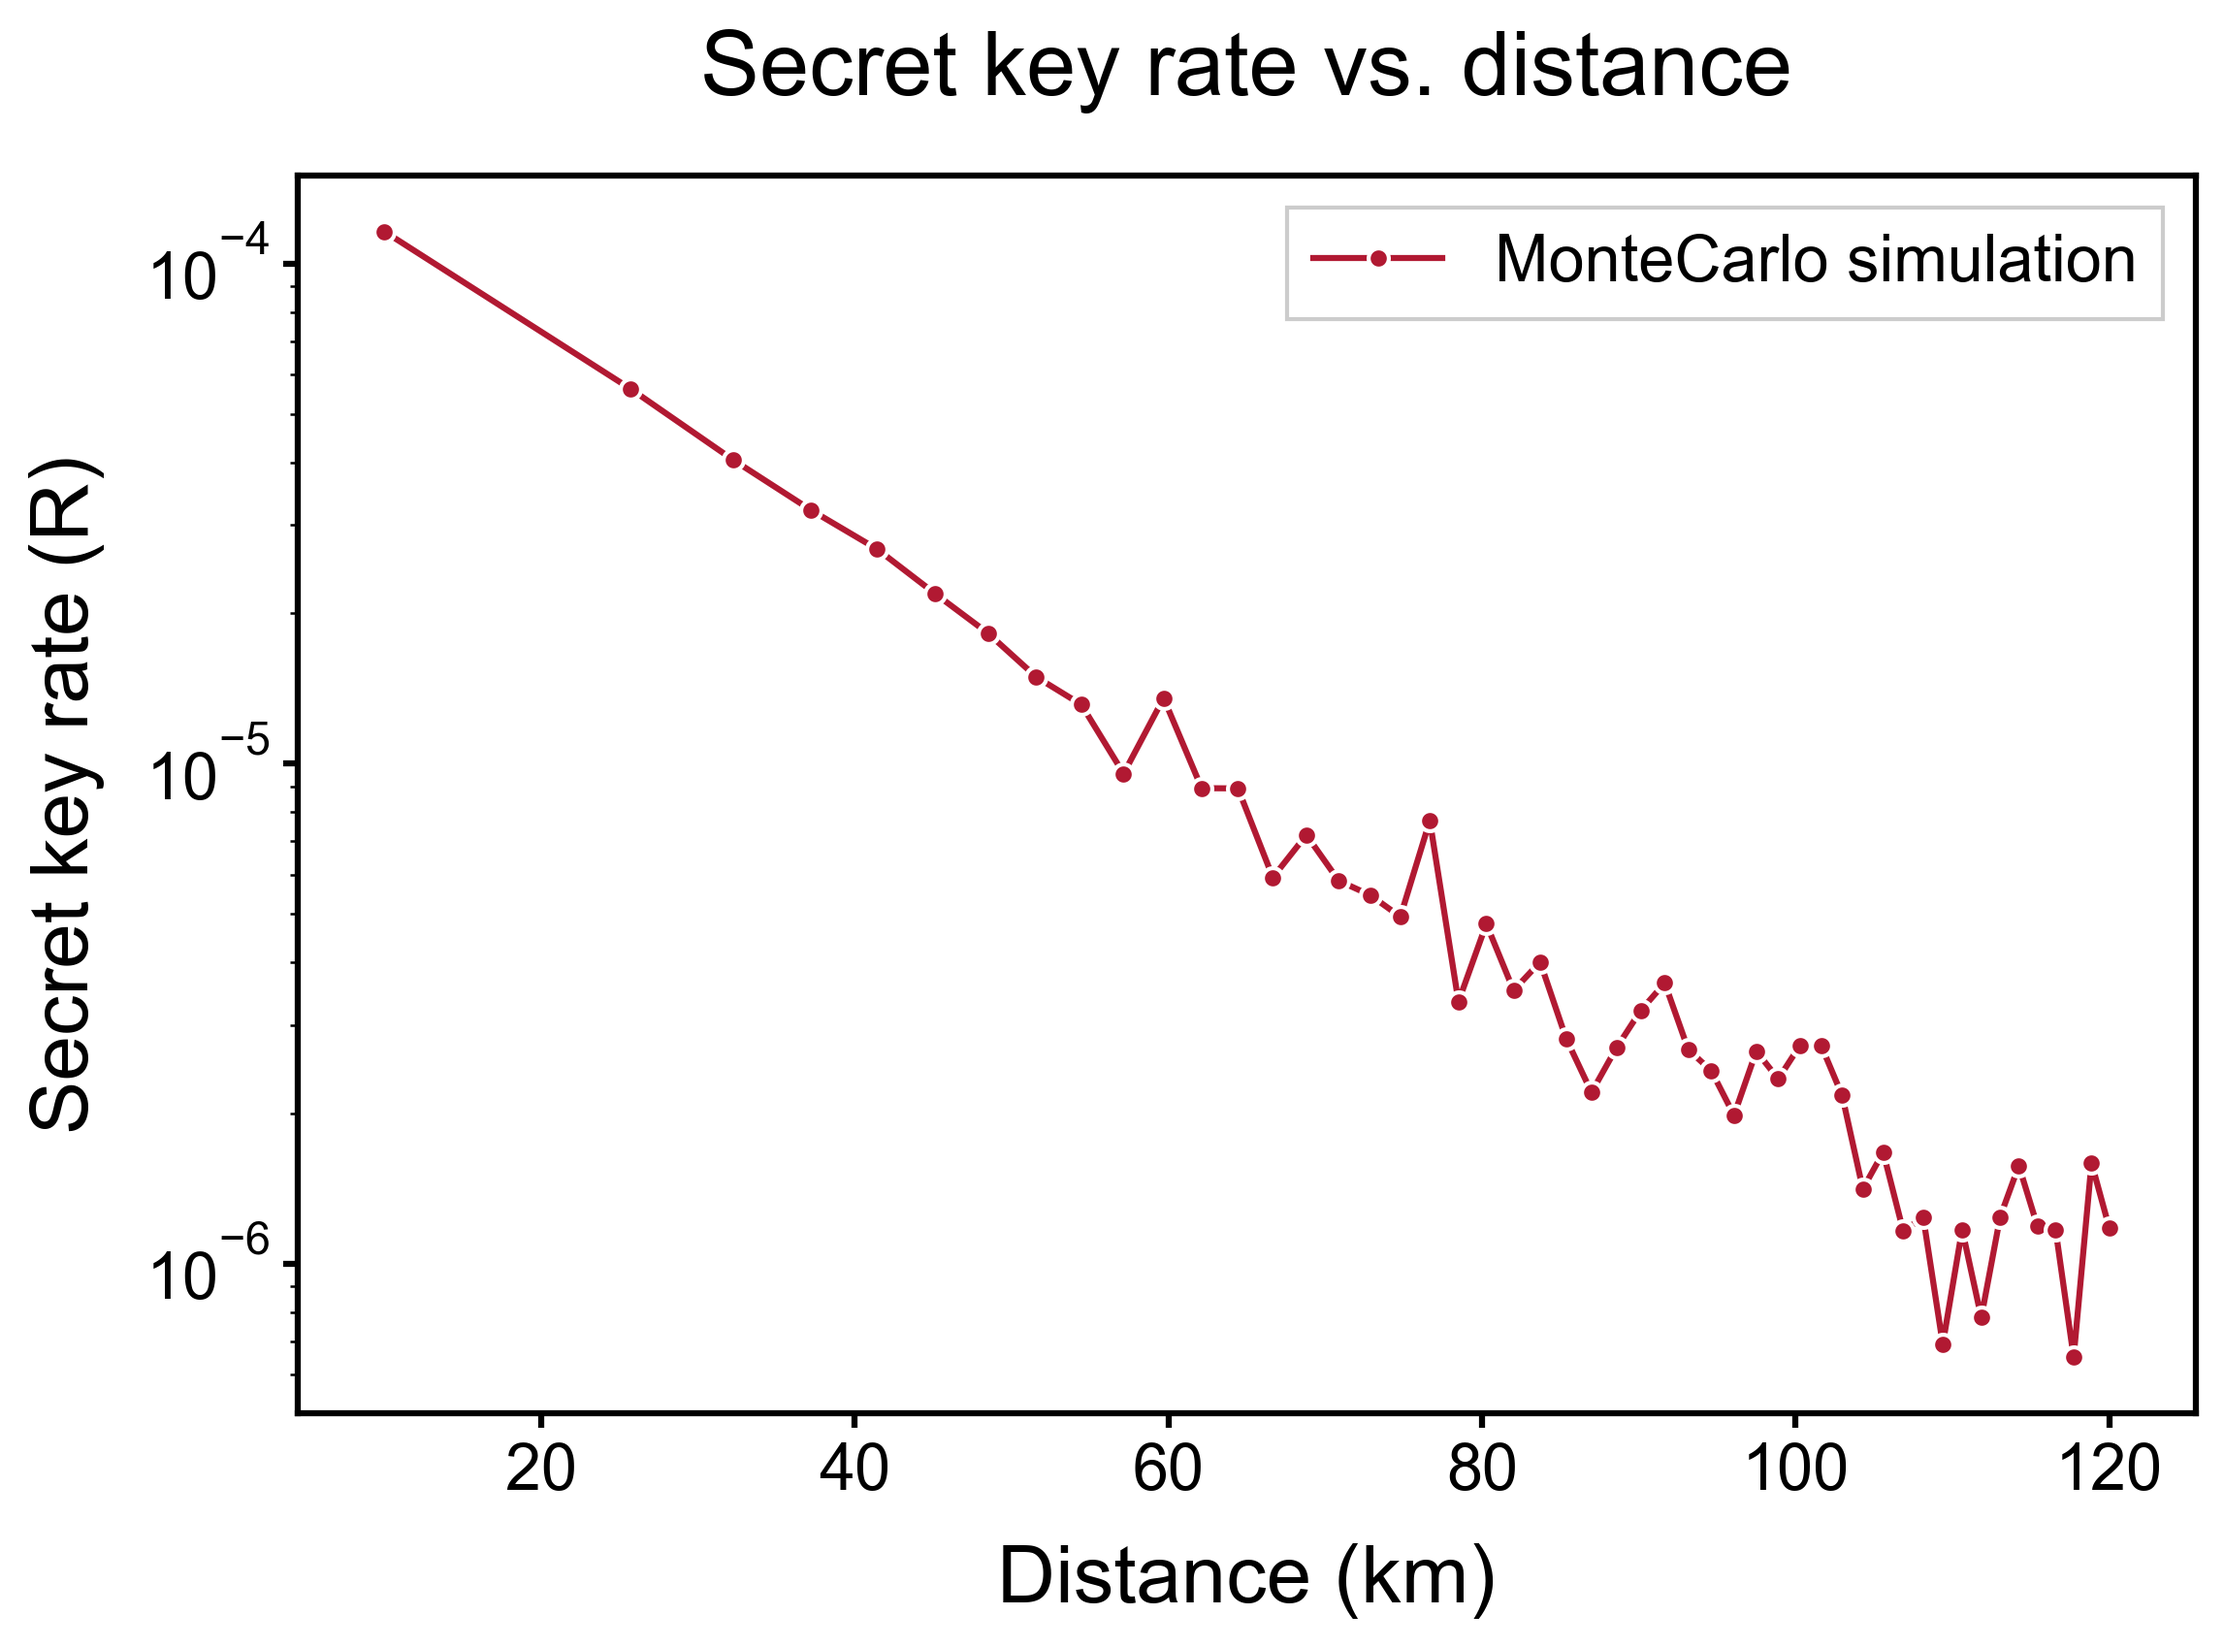
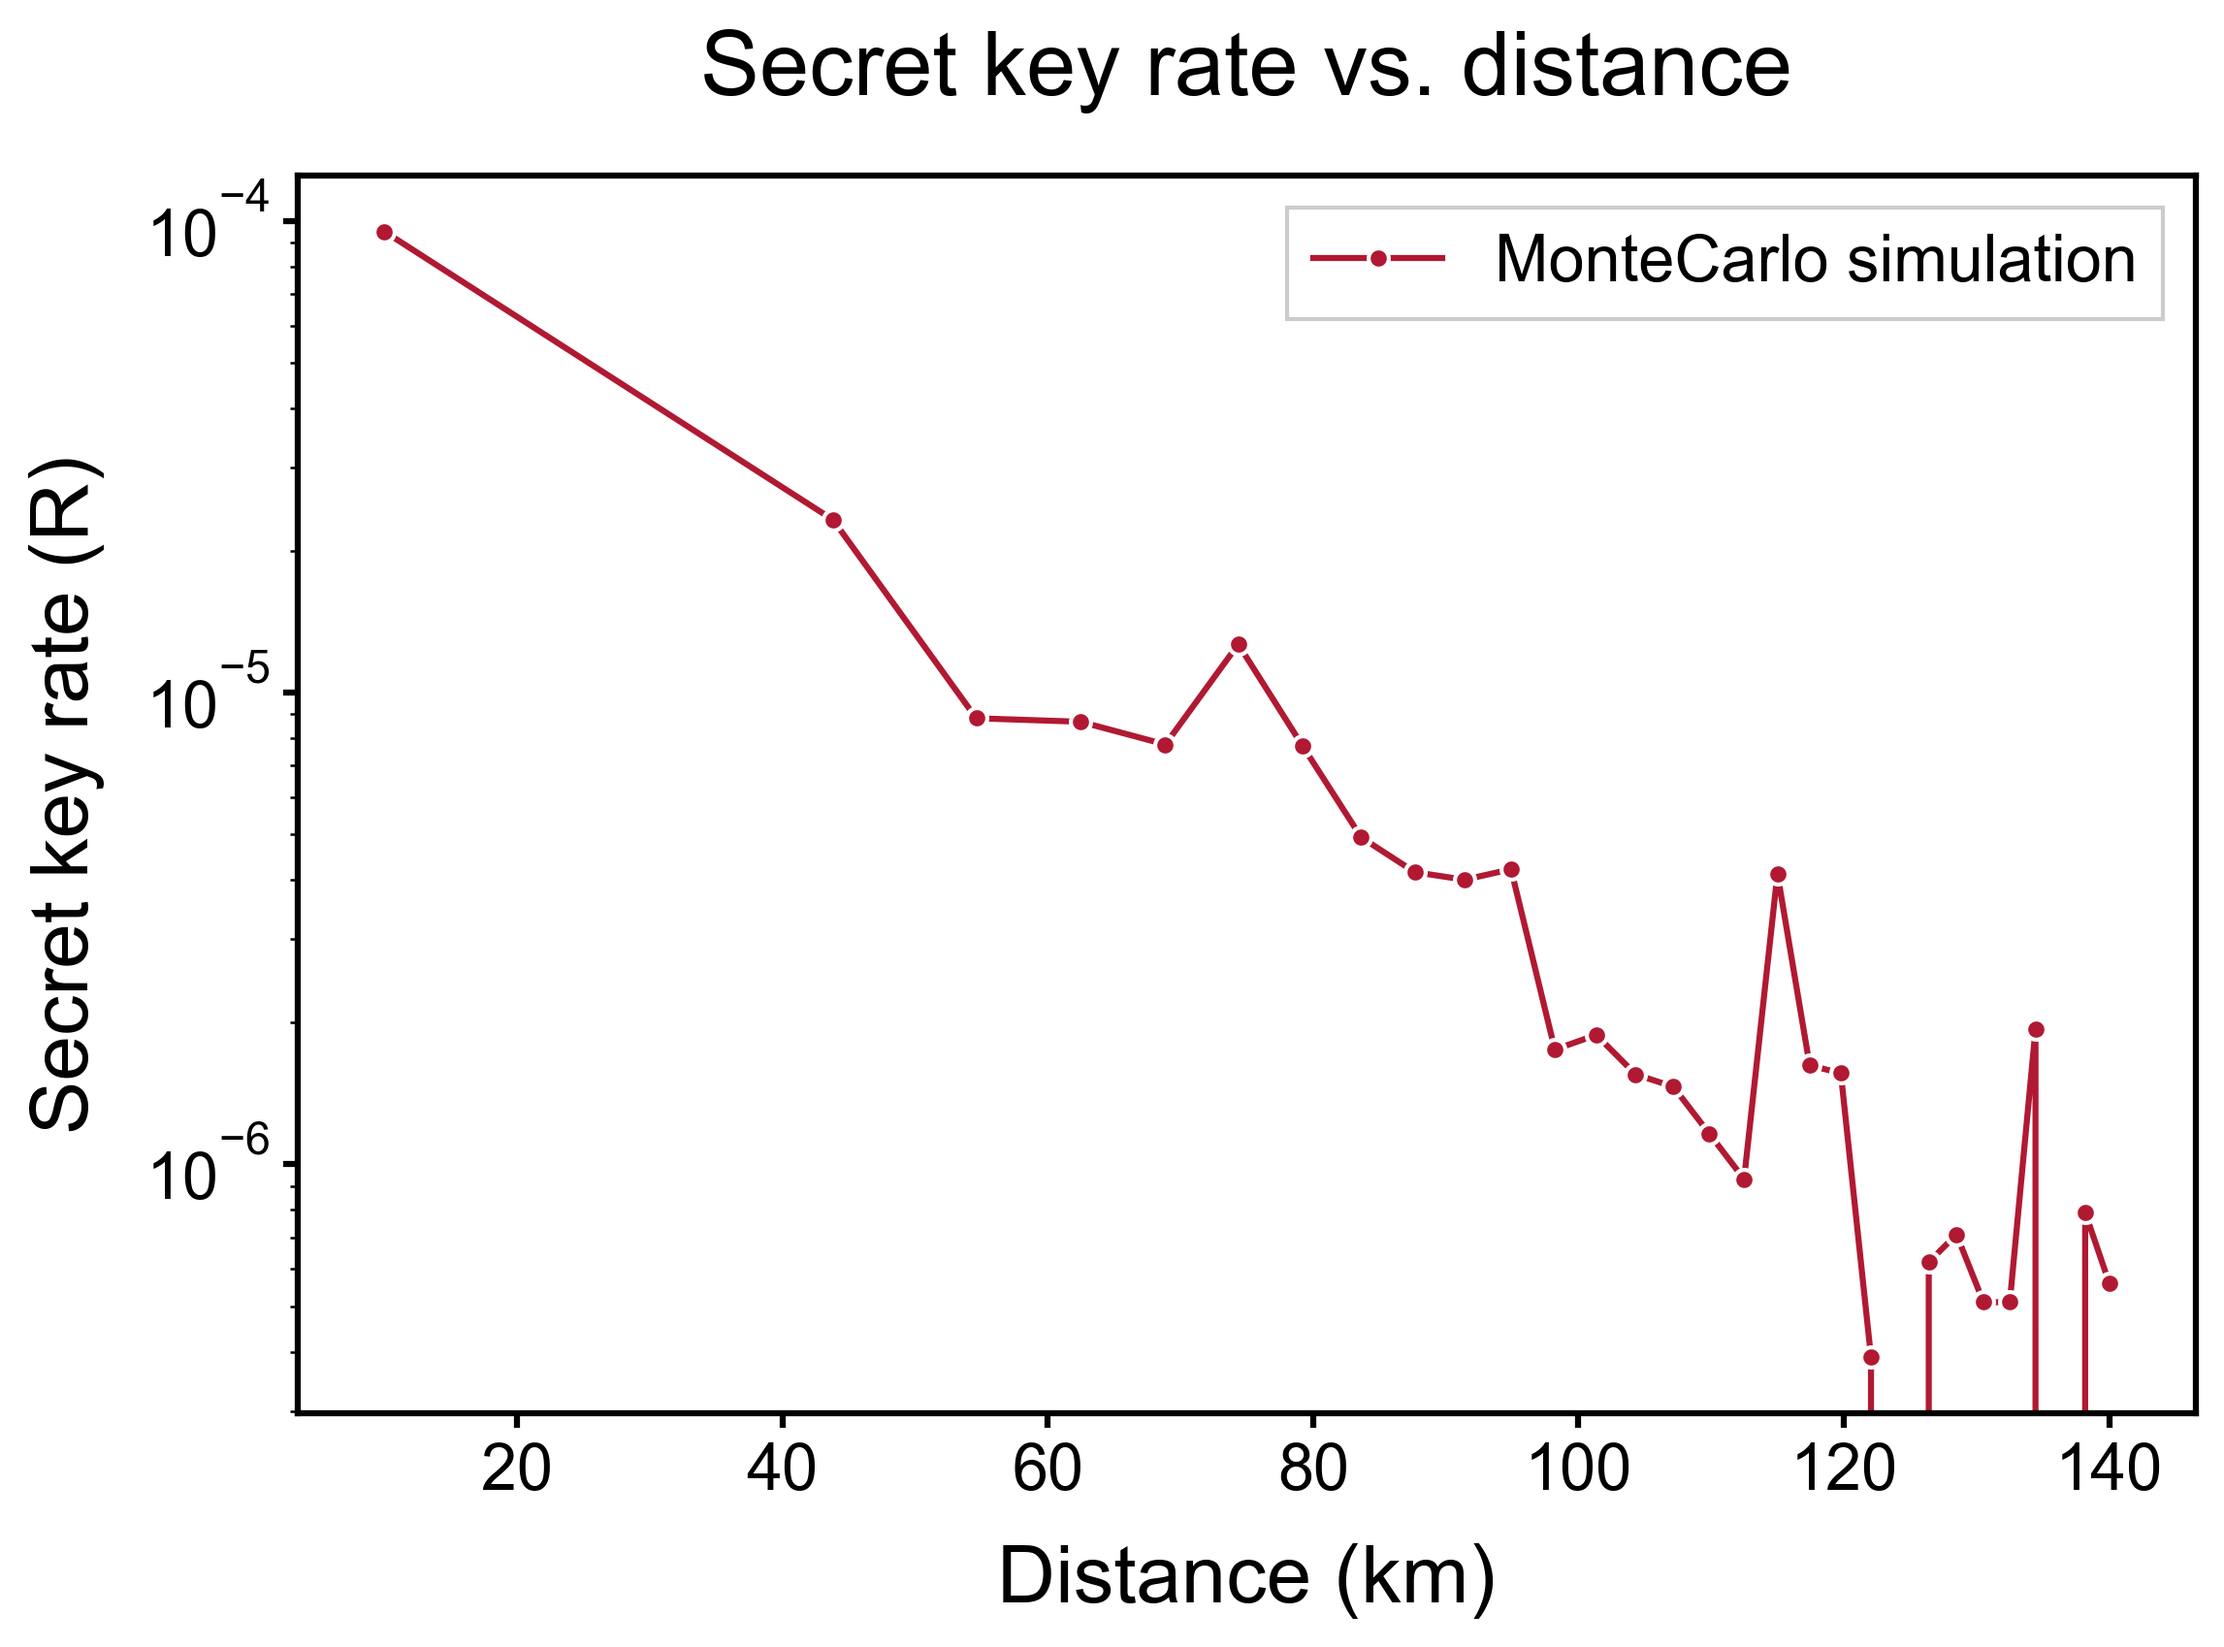
Adjusted simulation parameters and data output file system

diff --git a/main.py b/main.py
@@ -3,10 +3,12 @@ import matplotlib.pyplot as plt
 from tqdm import tqdm
 from bb88_simulator import Simulator
 from datetime import datetime
+import json
+import os
 
 simulation_parameters = {
-    "Iterations": 75,
-    "N": 30_000_000,  # Number of generated pulses
+    "Iterations": 100,
+    "N": 50_000_000,  # Number of generated pulses
     "mu": 0.5,  # Signal intensity
     "decoy_intensities": [0.1, 0.0],  # Decoy intensities
     "decoy_rate": 0.3,  # Decoy probability
@@ -29,33 +31,56 @@ iter = simulation_parameters["Iterations"]
 simulator = Simulator(simulation_parameters=simulation_parameters, rng=rng)
 
 d_min = 10.0
-d_max = 120
-sample = 60
-alpha = 0.5  # Controls the concentration of points
+d_max = 140
+d_sample = 60
+alpha = 0.4  # Controls the concentration of points
 
-t = np.linspace(0.0, 1.0, sample)
+iter_max = 120
+iter_min = 20
+gamma = 0.4
 
+t = np.linspace(0.0, 1.0, d_sample)
+
+iterations = (iter_min + (iter_max - iter_min) * (t**gamma)).astype(int)
 distances = d_min + (d_max - d_min) * (t**alpha)
 key_rates = np.array([], dtype=float)
+print(f"Iterations: {iterations}")
+print(f"Distances: {distances}" )
 
 print(f"Distance (Km), Key rate (bit/s)")
+i = 0
 for d in tqdm(distances, desc="Distances"):
 
-    R = simulator.run(l=d)
+    R = simulator.run(l=d, iter=iterations[i])
     key_rates = np.append(key_rates, R)
     print(f"{d}, {R}")
-
+    i+=1
 
 data = np.column_stack((distances, key_rates))
-timestamp = datetime.now().strftime("%Y%m%d_%H%M%S")
+data_dir = "data"
+os.makedirs(data_dir, exist_ok=True)
 
-filename = f"data_{timestamp}_{iter}_{simulation_parameters["N"]}.csv"
+timestamp = datetime.now()
 
-np.savetxt(
-    "data.csv",
-    data,
-    delimiter=",",
-    header="Distance (Km), Key rate (bit/s)",
-    comments="",
-    fmt="%.8f",
-)
+meta = simulation_parameters.copy()
+meta["time"] = timestamp.strftime("%Y/%m/%d - %H:%M:%S")
+
+filename = f"data_{timestamp.strftime("%Y%m%d_%H%M%S")}_{iter}_{simulation_parameters["N"]}.csv"
+filepath = os.path.join(data_dir, filename)
+
+
+with open(filepath, "w", encoding="utf-8") as f:
+    meta_json = json.dumps(meta, indent=2, ensure_ascii=False)
+    for line in meta_json.splitlines():
+        f.write(f"#{line}\n")
+    f.write("#---\n")
+
+    header = "Distance (Km), Key rate (1/s)\n"
+    f.write(header)
+
+    np.savetxt(
+        f,
+        data,
+        delimiter=",",
+        fmt="%.8f",
+    )

diff --git a/bb88_simulator.py b/bb88_simulator.py
@@ -9,12 +9,11 @@ class Simulator:
         
         self.simulation_parameters = simulation_parameters
         self.rng = rng
-        self.iter = simulation_parameters["Iterations"]
         self.state_num = len(simulation_parameters["decoy_intensities"]) + 1
         self.debug = simulation_parameters["debug"]
 
     
-    def run(self, l: float) -> tuple: 
+    def run(self, l: float, iter: int) -> float: 
         
         #Declare objects
         alice = Source(self.simulation_parameters, self.rng)
@@ -26,7 +25,7 @@ class Simulator:
         Q_av =  np.zeros(self.state_num, dtype=float)
         E_av =  np.zeros(self.state_num, dtype=float)
             
-        for iter in tqdm(range(self.iter), desc = "Iterations"):
+        for iter in tqdm(range(iter), desc = "Iterations"):
             
             #Generate the photon pulse for Alice
             alice_bits, alice_basis, state_choice, photon_nums = alice.generate_pulses()
@@ -56,12 +55,12 @@ class Simulator:
             Q_cum += gains
             E_cum += qbers 
             
-        Q_av = Q_cum/self.iter
-        E_av = E_cum/self.iter
+        Q_av = Q_cum/iter
+        E_av = E_cum/iter
         
         if self.debug: 
-            print(f"[DEBUG] Average gains after {self.iter} iterations: {Q_av}")
-            print(f"[DEBUG] Average QBER after {self.iter} iterations: {E_av}")
+            print(f"[DEBUG] Average gains after {iter} iterations: {Q_av}")
+            print(f"[DEBUG] Average QBER after {iter} iterations: {E_av}")
             
         #Compute the thresholds to calculate the secure Key rate. 
         y_0_l = post_process.background_yield_bound(gains=Q_av)

diff --git a/plot_R.py b/plot_R.py
@@ -2,7 +2,7 @@ import numpy as np
 import matplotlib.pyplot as plt
 
 # Leer archivo CSV como array 2D
-data = np.genfromtxt('data.csv', delimiter=',', skip_header=1)
+data = np.genfromtxt('data/data_20260410_124020_100_1000000.csv', delimiter=',', skip_header=1)
 
 distances = data[:, 0]        # primera columna
 key_rates = data[:, 1]   # segunda columna
